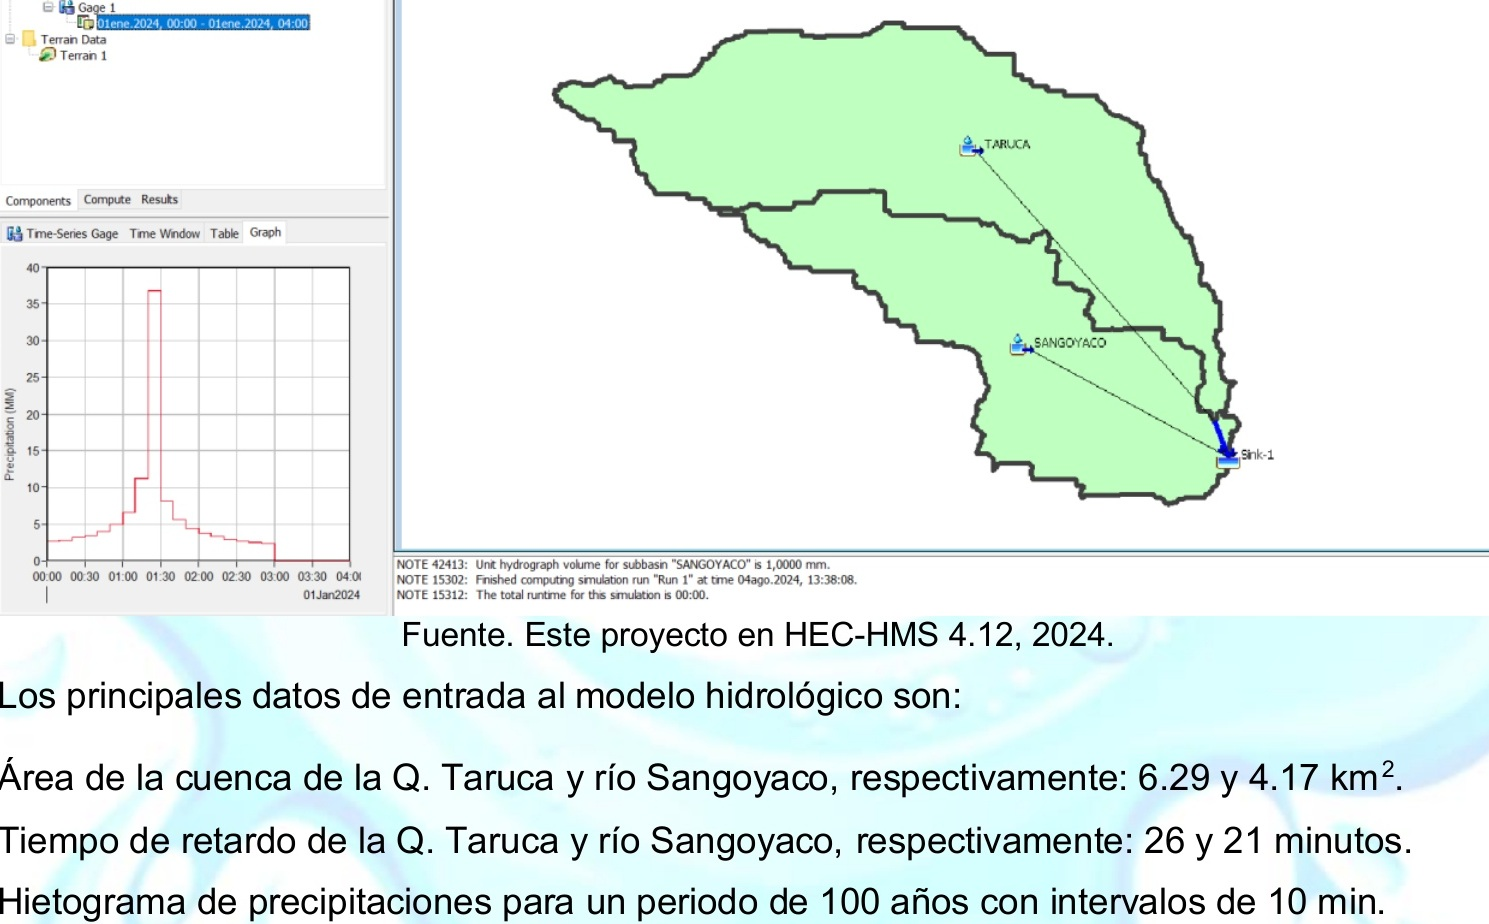
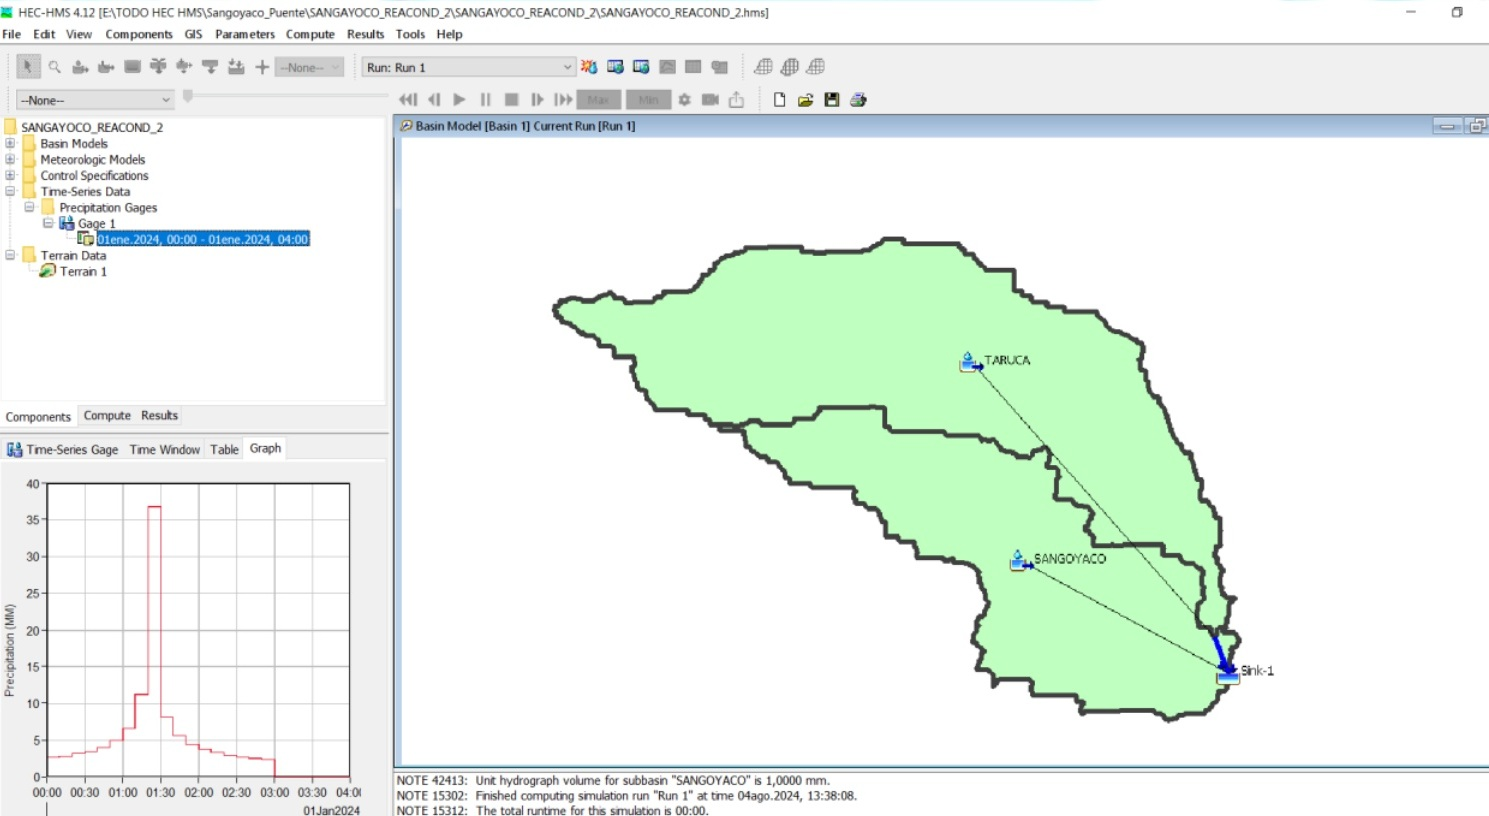
fix: refine Sangoyaco project imagery

diff --git a/aquatek-web/src/content/projects/estudio-puente-sangoyaco.md b/aquatek-web/src/content/projects/estudio-puente-sangoyaco.md
@@ -54,10 +54,10 @@ media:
   - type: image
     src: /media/projects/estudio-puente-sangoyaco/aerea-01.jpg
     width: 1800
-    height: 1349
+    height: 1012
     alt: Vista aérea del cauce y del puente existente en el corredor estudiado.
     caption: Reconocimiento aéreo · Relación entre el cauce, el puente y las márgenes.
-    layout: wide
+    display: centered
   - type: image
     src: /media/projects/estudio-puente-sangoyaco/01-figura-05-cuencas.jpg
     width: 1285
@@ -75,7 +75,7 @@ media:
   - type: image
     src: /media/projects/estudio-puente-sangoyaco/07-figura-23-modelo-hec-hms.jpg
     width: 1489
-    height: 924
+    height: 816
     alt: Representación del modelo hidrológico construido en HEC-HMS.
     caption: Modelo HEC-HMS · Esquematización de cuencas y conexiones hidrológicas.
     layout: wide
@@ -120,7 +120,7 @@ media:
     height: 1003
     alt: Curva granulométrica integrada para el material del lecho del río.
     caption: Material del lecho · Integración del ensayo externo y el análisis de material grueso.
-    layout: wide
+    display: centered
   - type: image
     src: /media/projects/estudio-puente-sangoyaco/18-figura-38-socavacion-general.jpg
     width: 1550
